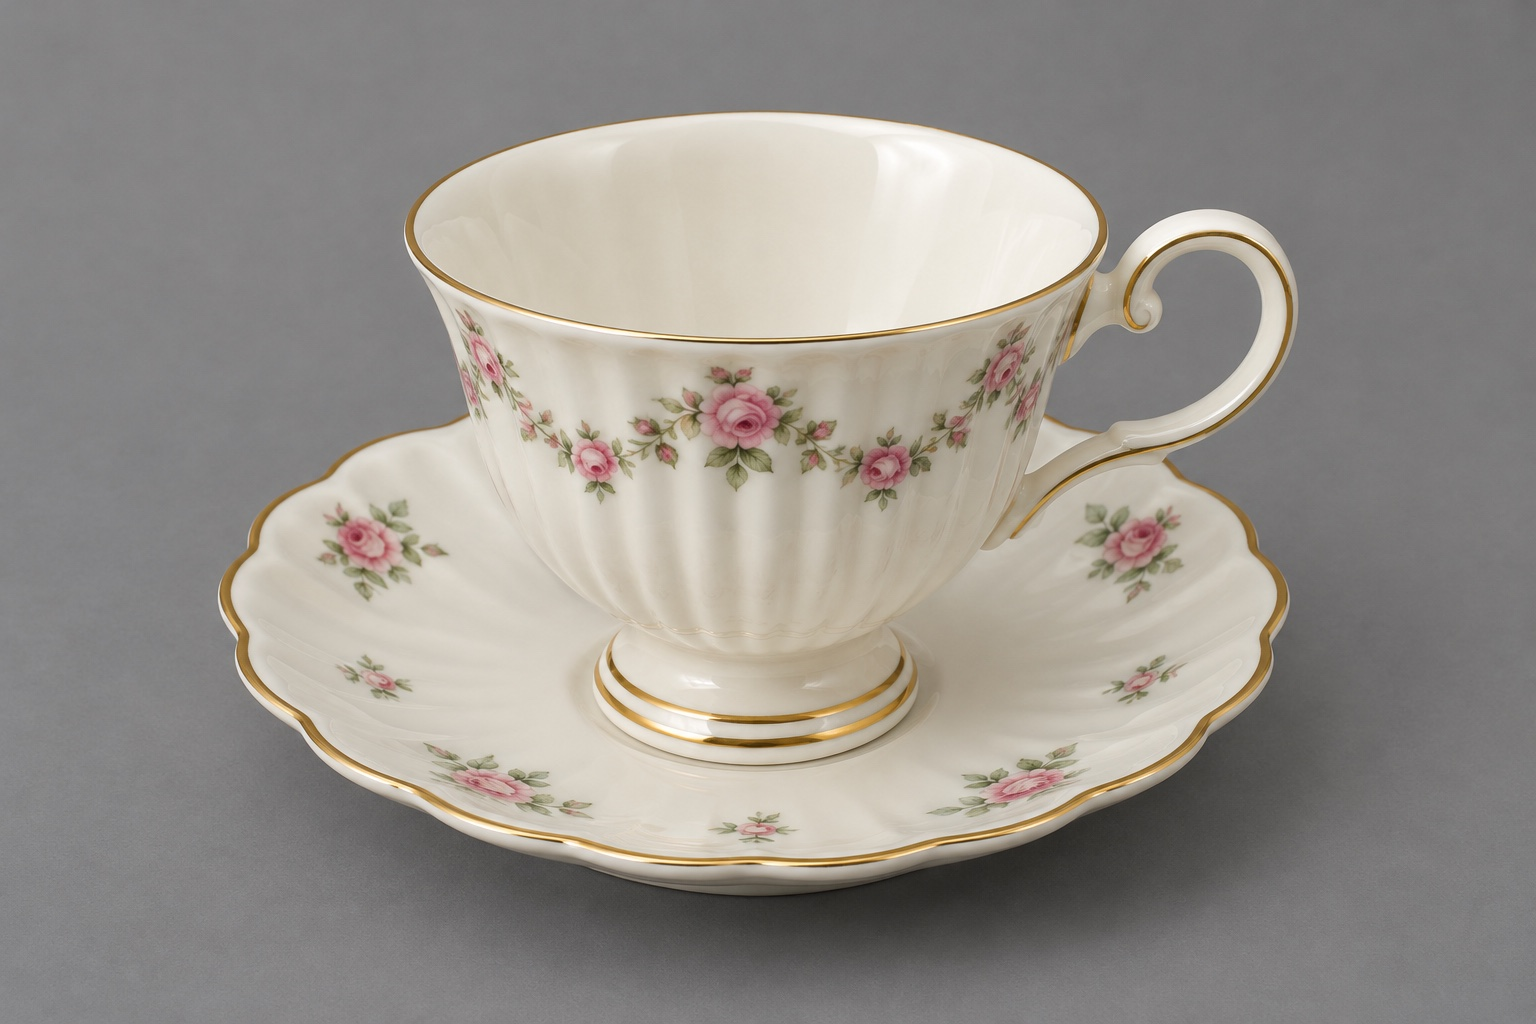
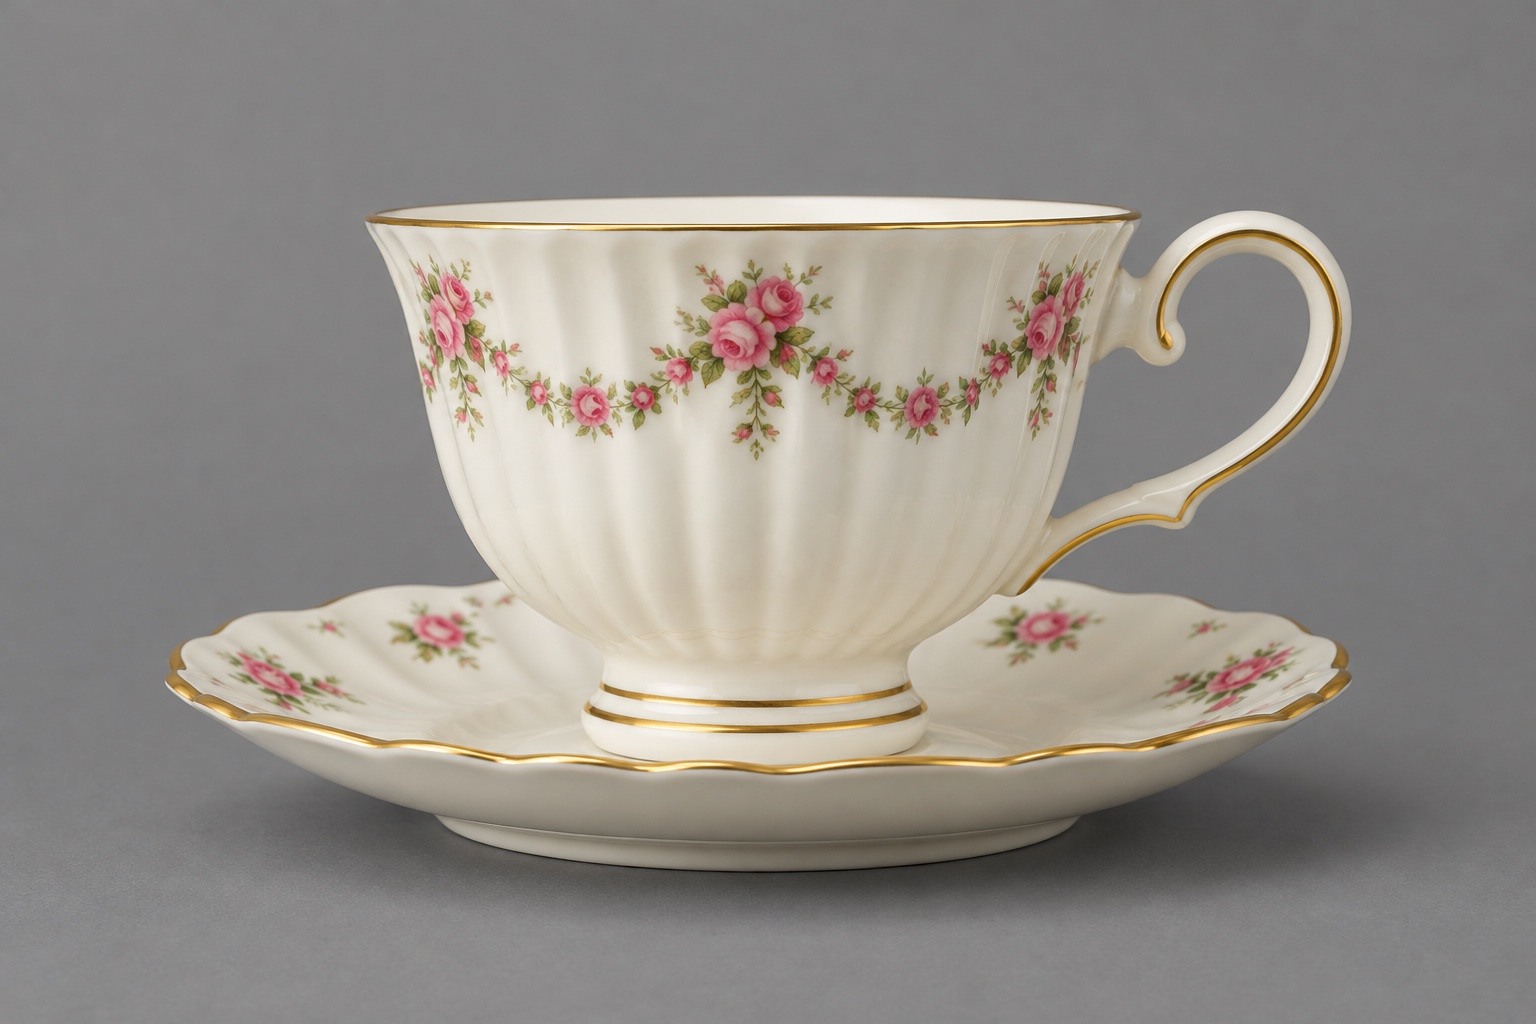
Eye-level cup, see-through bowl and soft steam
Swap in a photo of the cup taken from nearly eye level, so the rim is a
thin oval like the face-on biscuit. Only the bowl wall turns see-through
when you look into the tea; the saucer, foot and handle stay solid. The
steam is now soft blurred wisps, and the tea reads as a solid brown.

diff --git a/index.html b/index.html
@@ -612,7 +612,7 @@ const PORES = (() => {
 
 /* ---------- layout measurement ---------- */
 var CU = 1, CUPIMG = null;
-const PH = {cx: 755, cy: 226.5, rx: 347.5, ry: 113.5, teaDy: 30, trx: 328, try: 104, bowl: 645, base: 880};
+const PH = {cx: 741, cy: 214, rx: 389, ry: 12, teaDy: 4, trx: 380, try: 10, bowl: 650, base: 868};
 let W = 0, H = 0, U = 1, DPR = 1, narrow = false;
 const sections = [...document.querySelectorAll('[data-pose]')].map(el => ({el, name: el.dataset.pose, pin: el.classList.contains('pin'), top: 0, h: 0}));
 const SEC = Object.fromEntries(sections.map(s => [s.name, s]));
@@ -669,9 +669,9 @@ function geomDunk(top, dd = 0){
   // dd: 0 = biscuit hovering above the cup, 1 = biscuit half in the tea
   const cx = W / 2;
   if (CUPIMG){
-    // the photographed cup: its gold rim is an ellipse 695 x 227 px centred at (755, 226) in the photo
+    // the photographed cup, seen at eye level: its gold rim is a thin ellipse 778 px wide centred at (741, 214)
     const a = 30 * CU, k = a / PH.rx, teaDy = PH.teaDy * k;
-    const ry = top + H / 2 + lerp(33 * CU, .1 * 21 * CU - teaDy, dd);
+    const ry = top + H / 2 + lerp(24 * CU, .1 * 21 * CU - teaDy, dd);
     return {cx, ry, a, b: 0, h: (PH.bowl - PH.cy) * k, e: PH.ry * k, tea: ry + teaDy, k, trx: PH.trx * k, try: PH.try * k};
   }
   const ry = top + H / 2 + lerp(30 * CU, -2.9 * CU, dd);
@@ -1062,7 +1062,7 @@ function handle(G){
   ctx.beginPath(); ctx.arc(hx + 3.5 * u, ry + 1.2 * u, 1.8 * u, 0, TAU); ctx.fill(); ctx.stroke();
 }
 function cupPath(G){ return CUPIMG ? cupPathPhoto(G) : cupPathDrawn(G); }
-function drawCupBack(G){ return CUPIMG ? drawCupBackPhoto(G) : drawCupBackDrawn(G); }
+function drawCupBack(G, c){ return CUPIMG ? drawCupBackPhoto(G, c) : drawCupBackDrawn(G); }
 function teaFront(G, a){ return CUPIMG ? teaFrontPhoto(G, a) : teaFrontDrawn(G, a); }
 function drawCupFront(G, c){ return CUPIMG ? drawCupFrontPhoto(G, c) : drawCupFrontDrawn(G, c); }
 // cut the cup out of its grey studio backdrop (flood in from the edges over neutral greys)
@@ -1080,7 +1080,7 @@ function cupCutout(img){
     if (x > 0) st.push(i - 1); if (x < Wd - 1) st.push(i + 1); if (i >= Wd) st.push(i - Wd); if (i < n - Wd) st.push(i + Wd);
   }
   // the backdrop also shows through the loop of the handle, which the flood can't reach
-  for (let y = 230; y < 440; y++) for (let x = 1105; x < 1275; x++){ const i = y * Wd + x; if (grey(i)) bg[i] = 1; }
+  for (let y = 235; y < 580; y++) for (let x = 1140; x < 1325; x++){ const i = y * Wd + x; if (grey(i)) bg[i] = 1; }
   for (let i = 0; i < n; i++){
     if (bg[i]){ px[i * 4 + 3] = 0; continue; }
     const x = i % Wd;
@@ -1099,14 +1099,14 @@ function cupPhoto(G, alpha = 1){
 function cupPathPhoto(G){
   const k = G.k, X = x => G.cx + (x - PH.cx) * k, Y = y => G.ry + (y - PH.cy) * k;
   ctx.beginPath();
-  ctx.moveTo(X(408), Y(226.5));
-  ctx.bezierCurveTo(X(414), Y(440), X(565), Y(620), X(662), Y(PH.bowl));
-  ctx.lineTo(X(848), Y(PH.bowl));
-  ctx.bezierCurveTo(X(945), Y(620), X(1096), Y(440), X(1102), Y(226.5));
+  ctx.moveTo(X(352), Y(214));
+  ctx.bezierCurveTo(X(362), Y(430), X(475), Y(605), X(610), Y(PH.bowl));
+  ctx.lineTo(X(872), Y(PH.bowl));
+  ctx.bezierCurveTo(X(1007), Y(605), X(1120), Y(430), X(1130), Y(214));
   ctx.ellipse(G.cx, G.ry, G.a, G.e, 0, 0, Math.PI, false);
   ctx.closePath();
 }
-function drawCupBackPhoto(G){
+function drawCupBackPhoto(G, c = 0){
   const k = G.k, by = G.ry + (PH.base - PH.cy) * k;
   // it sits on the page: a soft contact shadow and a wider, fainter one cast down and to the right
   for (const [dx, dy, rx, ryy, a] of [[40, 30, 760, 120, .35], [10, 4, 660, 60, .55]]){
@@ -1116,7 +1116,9 @@ function drawCupBackPhoto(G){
     ctx.save(); ctx.translate(sx, sy); ctx.scale(1, ryy / rx); ctx.translate(-sx, -sy);
     ctx.fillStyle = gr; ctx.beginPath(); ctx.arc(sx, sy, rx * k, 0, TAU); ctx.fill(); ctx.restore();
   }
-  cupPhoto(G);
+  // everything but the bowl stays solid; the bowl fades when we look inside the cup
+  ctx.save(); cupPathPhoto(G); ctx.rect(G.cx - G.a * 4, G.ry - H, G.a * 8, H * 3); ctx.clip('evenodd'); cupPhoto(G); ctx.restore();
+  ctx.save(); cupPathPhoto(G); ctx.clip(); cupPhoto(G, 1 - .9 * c); ctx.restore();
   // tea in the bowl, with a soft meniscus where it meets the porcelain
   const tg = ctx.createRadialGradient(G.cx - G.trx * .3, G.tea - G.try * .4, G.trx * .1, G.cx, G.tea, G.trx);
   tg.addColorStop(0, '#A85A24'); tg.addColorStop(.7, '#7A3A12'); tg.addColorStop(1, '#5E2A0C');
@@ -1137,13 +1139,8 @@ function teaFrontPhoto(G, alpha){
 }
 function drawCupFrontPhoto(G, c){
   // redraw the photo over everything below the front of the rim, so the cup wall hides the biscuit
-  ctx.save();
-  ctx.beginPath();
-  ctx.rect(G.cx - G.a * 4, G.ry, G.a * 8, H * 2);
-  ctx.ellipse(G.cx, G.ry, G.a * .995, G.e * .99, 0, 0, Math.PI, false);
-  ctx.clip('evenodd');
-  cupPhoto(G, 1 - .88 * c);
-  ctx.restore();
+  // only the bowl wall: the saucer, foot and handle stay solid from the layer behind
+  ctx.save(); cupPathPhoto(G); ctx.clip(); cupPhoto(G, 1 - .88 * c); ctx.restore();
   if (c > 0){
     ctx.save(); ctx.strokeStyle = COL.ink; ctx.globalAlpha = .25 + .4 * c; ctx.lineWidth = .3 * CU; ctx.setLineDash([1.4 * CU, 1.1 * CU]);
     cupPathPhoto(G); ctx.stroke(); ctx.restore();
@@ -1179,7 +1176,7 @@ function teaBody(G, c){
   if (c <= 0) return;
   ctx.save(); clipTea(G);
   const g = ctx.createLinearGradient(0, G.tea, 0, G.ry + G.h * .8);
-  g.addColorStop(0, `rgba(176,96,40,${.42 * c})`); g.addColorStop(1, `rgba(96,44,12,${.72 * c})`);
+  g.addColorStop(0, `rgba(176,96,40,${.68 * c})`); g.addColorStop(1, `rgba(96,44,12,${.9 * c})`);
   ctx.fillStyle = g; ctx.fillRect(G.cx - G.a, G.tea, G.a * 2, G.h);
   ctx.restore();
 }
@@ -1236,14 +1233,16 @@ function drawCupFrontDrawn(G, c){
 }
 function steam(G, t, alpha){
   if (alpha <= .01) return;
-  ctx.save(); ctx.lineCap = 'round'; ctx.lineWidth = 1.1 * CU;
-  for (let k = 0; k < 3; k++){
-    const x0 = G.cx + (k - 1) * 10 * CU, base = G.ry - 3 * CU, len = 22 * CU;
-    const ph = reduceMotion ? 0 : t * 1.1 + k * 2.1;
+  ctx.save(); ctx.lineCap = 'round';
+  ctx.filter = `blur(${(1.4 * CU).toFixed(1)}px)`;
+  for (let k = 0; k < 4; k++){
+    const x0 = G.cx + (k - 1.5) * 9 * CU, base = G.ry - 1 * CU, len = 26 * CU;
+    const ph = reduceMotion ? k : t * .7 + k * 1.9;
     const gr = ctx.createLinearGradient(0, base, 0, base - len);
-    gr.addColorStop(0, 'rgba(160,145,125,0)'); gr.addColorStop(.35, `rgba(160,145,125,${.4 * alpha})`); gr.addColorStop(1, 'rgba(160,145,125,0)');
-    ctx.strokeStyle = gr; ctx.beginPath();
-    for (let s = 0; s <= 24; s++){ const y = base - s / 24 * len; const x = x0 + Math.sin(ph + s * .42) * 2.2 * CU * (s / 24 + .3); s ? ctx.lineTo(x, y) : ctx.moveTo(x, y); }
+    gr.addColorStop(0, 'rgba(255,250,240,0)'); gr.addColorStop(.25, `rgba(255,250,240,${.13 * alpha})`); gr.addColorStop(1, 'rgba(255,250,240,0)');
+    ctx.strokeStyle = gr; ctx.lineWidth = (2.6 + k % 2) * CU;
+    ctx.beginPath();
+    for (let s2 = 0; s2 <= 30; s2++){ const f = s2 / 30, y = base - f * len, x = x0 + Math.sin(ph + f * 4.5) * 3 * CU * f; s2 ? ctx.lineTo(x, y) : ctx.moveTo(x, y); }
     ctx.stroke();
   }
   ctx.restore();
@@ -1449,7 +1448,7 @@ function frame(y, t){
   ctx.save();
   ctx.translate(fx, fy); ctx.scale(z, z); ctx.translate(-fx, -fy);
   if (cupVisible){
-    drawCupBack(G);
+    drawCupBack(G, c);
     steam(G, t, (1 - c) * (1 - d * (1 - l)));
     if (behindCup && !faceVisible) drawBiscuit(B);
     if (d > 0 && l < .2) teaFront(G, 1 - c);
